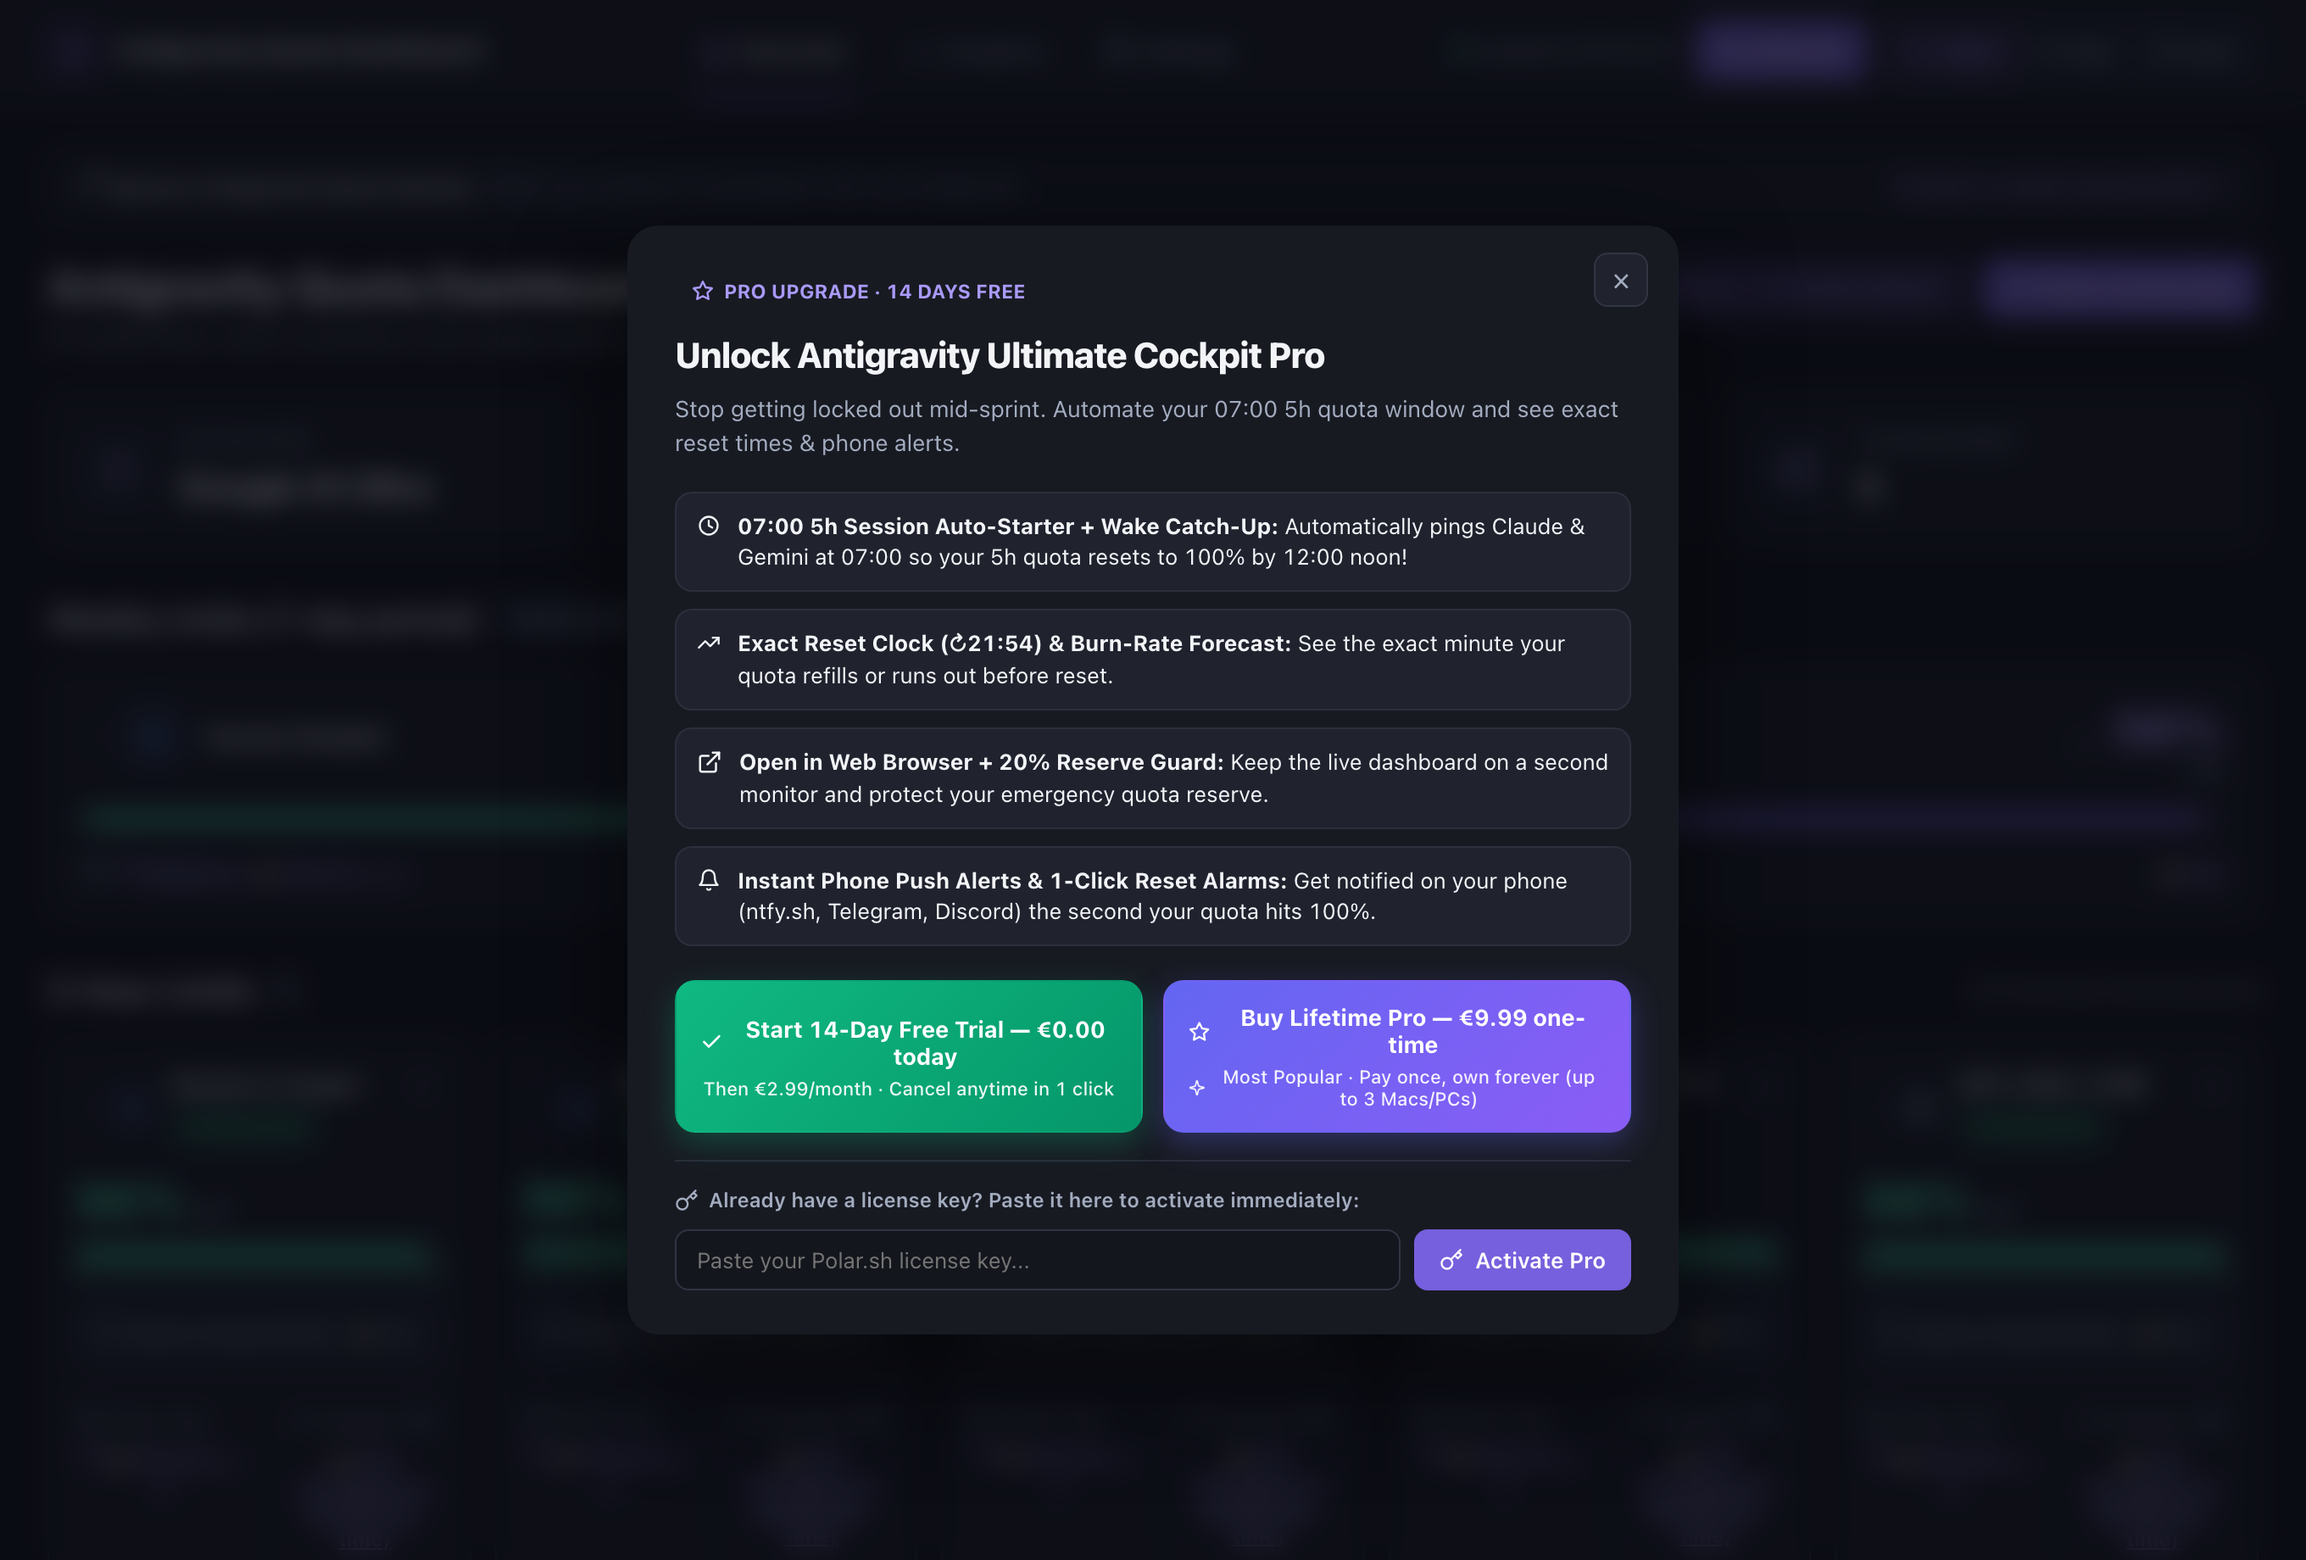
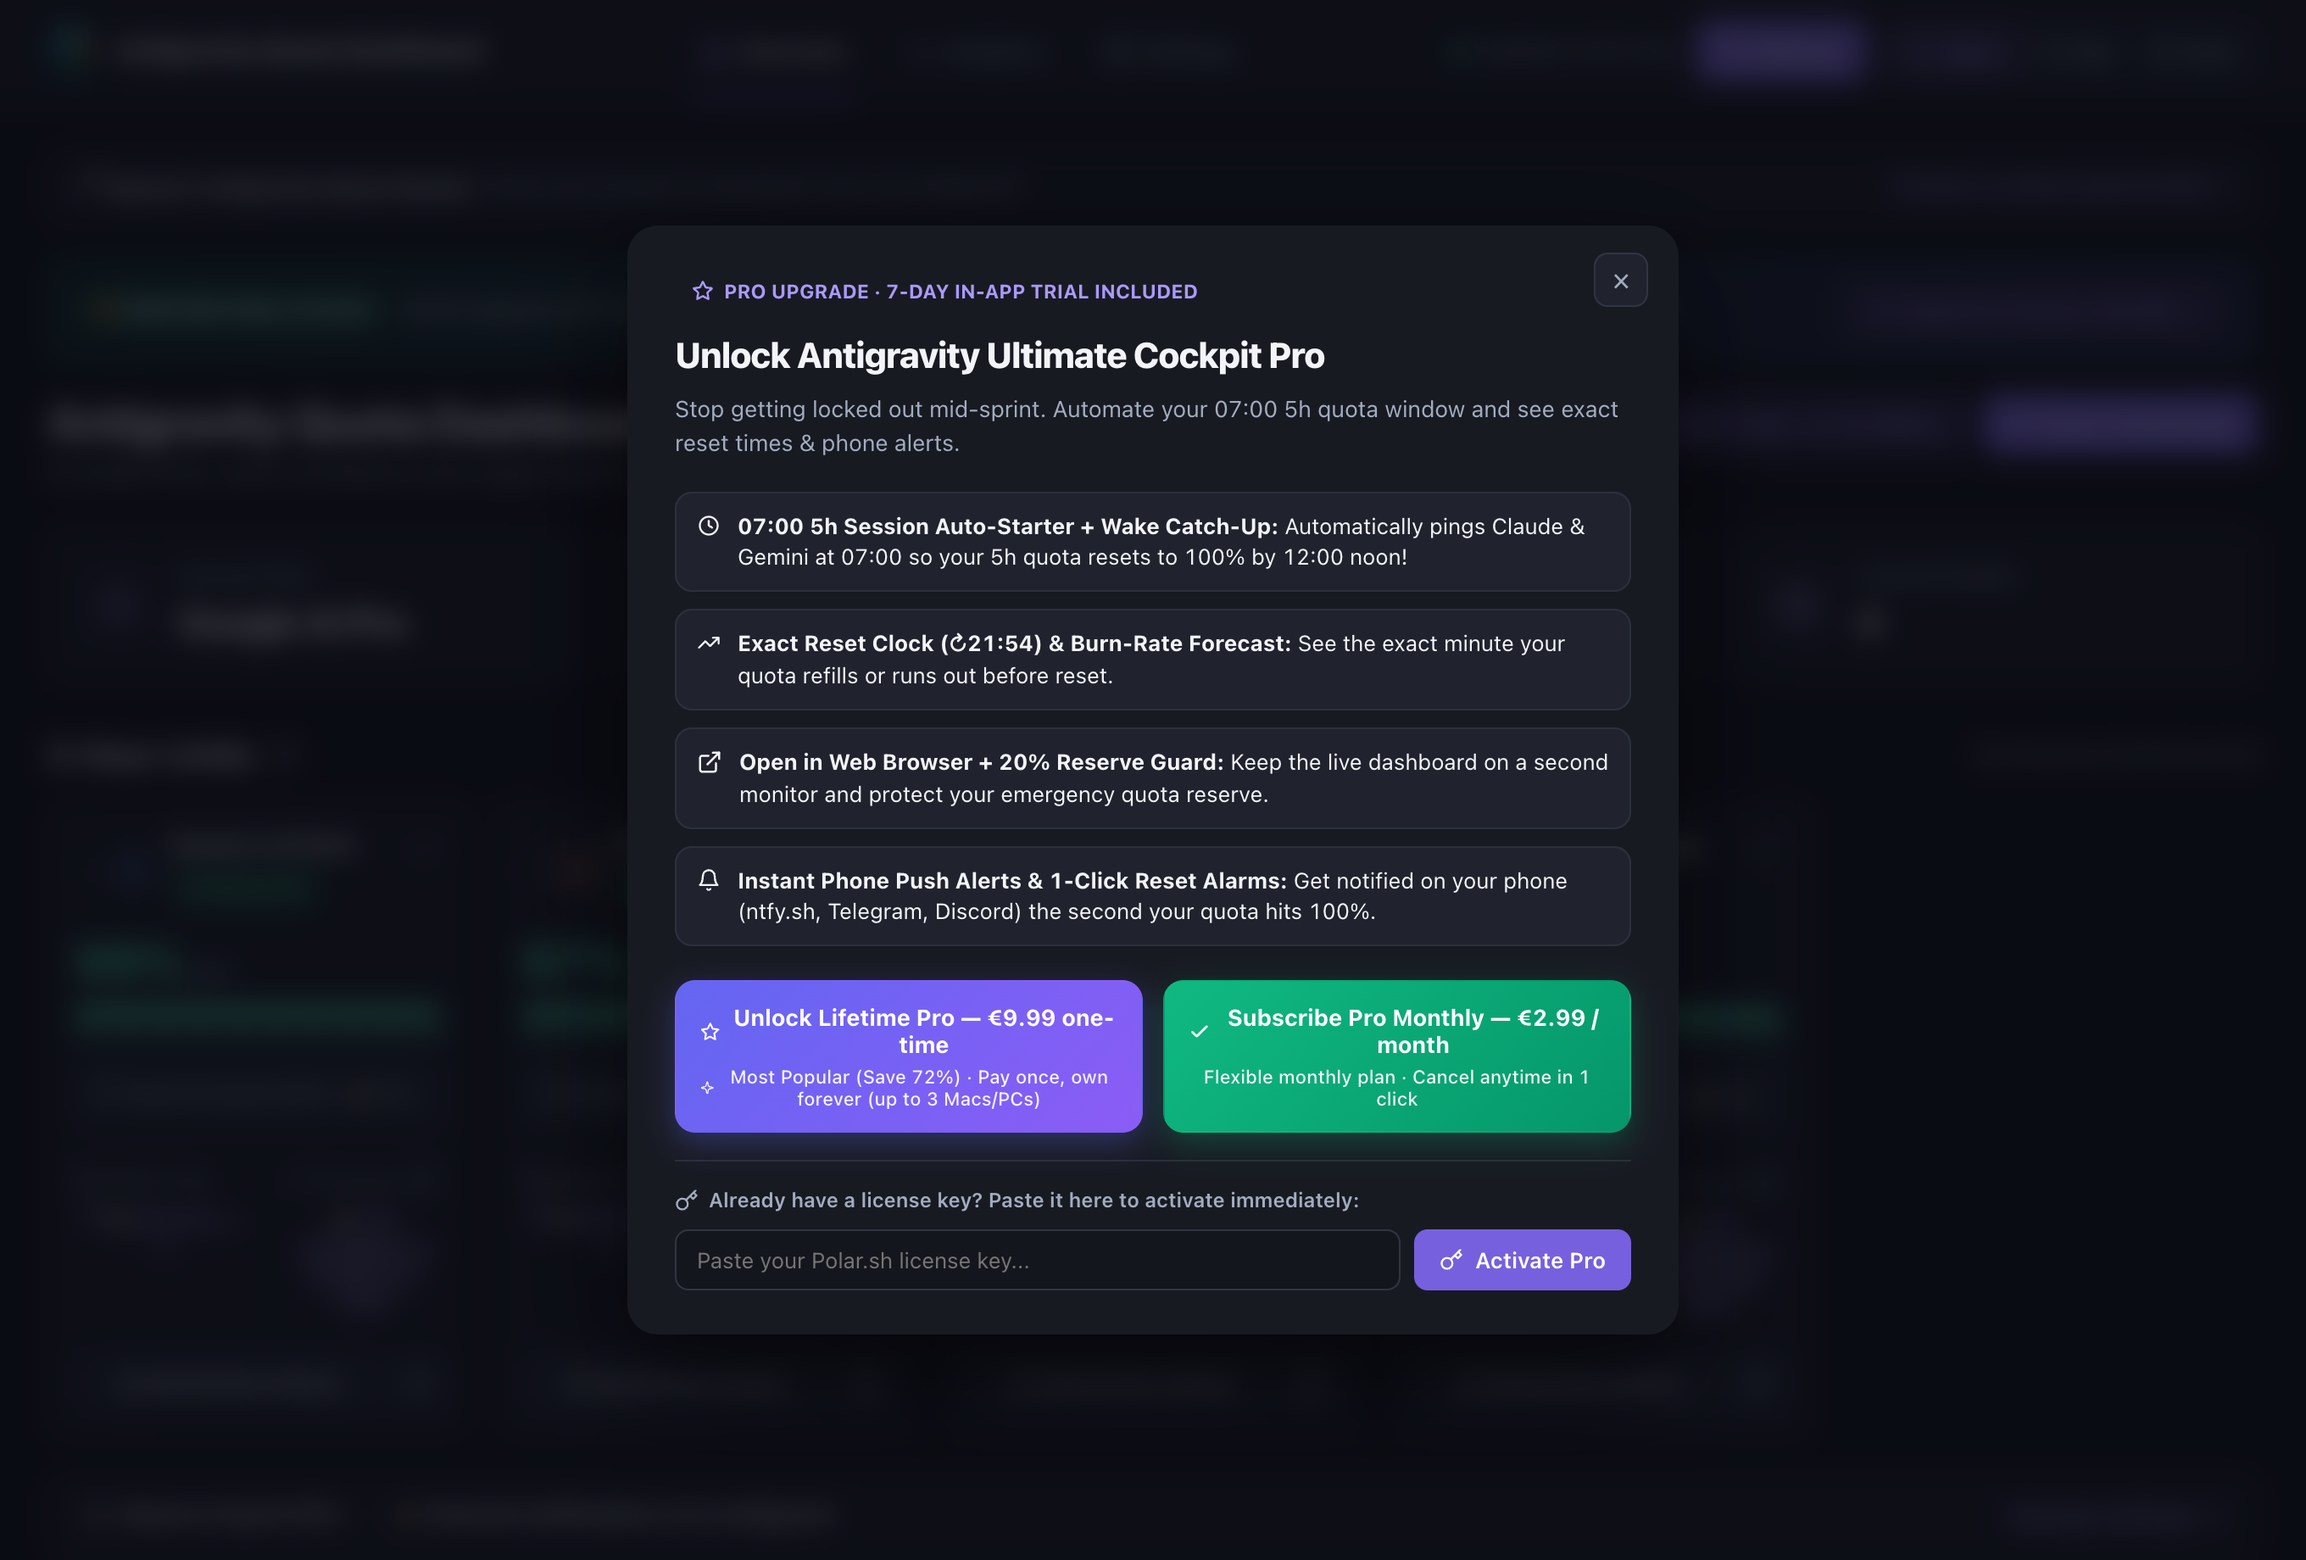
feat: unify 7-day in-app trial and prioritize €9.99 Lifetime Pro CTA (v2.0.39)

diff --git a/README.md b/README.md
@@ -7,14 +7,14 @@
 **Stop getting locked out of Claude Opus 5.5, Sonnet 5.5, and Gemini 4 Argon mid-sprint.**  
 **Real-time 5-Hour & 7-Day Weekly AI Quota Telemetry, Scheduled `07:00` Session Auto-Warmup, Reserve Guard & Phone Alerts for Google Antigravity IDE.**
 
-[![Version](https://img.shields.io/badge/release-v2.0.37-6D5EF3?style=flat-square)](https://open-vsx.org/extension/Nordicstocks/antigravity-quota-monitor)
+[![Version](https://img.shields.io/badge/release-v2.0.39-6D5EF3?style=flat-square)](https://open-vsx.org/extension/Nordicstocks/antigravity-quota-monitor)
 [![7-Day In-App Pro Trial](https://img.shields.io/badge/In--App_Pro_Trial-7_Days_FREE_(No_Card_Required)-10B981?style=flat-square)](https://open-vsx.org/extension/Nordicstocks/antigravity-quota-monitor)
 [![Lifetime Pro](https://img.shields.io/badge/Lifetime_Pro-%E2%82%AC9.99_One--Time-7C3AED?style=flat-square)](https://buy.polar.sh/polar_cl_xdY0LqtPIfPHfnG9o8Wo5QIIpJRlvhxQOZ6vL4g5jIB)
 [![37 Languages](https://img.shields.io/badge/Languages-37_Built--In-0EA5E9?style=flat-square)](#37-built-in-languages-automatic-os-detection)
 
 <br/>
 
-<a href="https://buy.polar.sh/polar_cl_avl0NAvpPN4jQD0vZRRg11yZ92BQ2OHCKw29f4dxlPW"><img src="https://img.shields.io/badge/START_14--DAY_PRO_TRIAL-%E2%82%AC0.00_TODAY-10B981?style=for-the-badge" alt="Start 14-Day Pro Trial" /></a>&nbsp;&nbsp;<a href="https://buy.polar.sh/polar_cl_xdY0LqtPIfPHfnG9o8Wo5QIIpJRlvhxQOZ6vL4g5jIB"><img src="https://img.shields.io/badge/BUY_LIFETIME_PRO-%E2%82%AC9.99_ONE--TIME-6D5EF3?style=for-the-badge" alt="Buy Lifetime Pro €9.99" /></a>
+<a href="https://buy.polar.sh/polar_cl_xdY0LqtPIfPHfnG9o8Wo5QIIpJRlvhxQOZ6vL4g5jIB"><img src="https://img.shields.io/badge/UNLOCK_LIFETIME_PRO-%E2%82%AC9.99_ONE--TIME_(SAVE_72%25)-6D5EF3?style=for-the-badge" alt="Unlock Lifetime Pro €9.99 One-Time" /></a>&nbsp;&nbsp;<a href="https://buy.polar.sh/polar_cl_avl0NAvpPN4jQD0vZRRg11yZ92BQ2OHCKw29f4dxlPW"><img src="https://img.shields.io/badge/PRO_MONTHLY-%E2%82%AC2.99_%2F_MONTH-10B981?style=for-the-badge" alt="Subscribe Pro Monthly €2.99/mo" /></a>
 
 </div>
 
@@ -43,7 +43,7 @@ If you already pay **\$20 to \$200/month** for AI coding plans (Google AI Pro/Ul
 | You send your first prompt at `09:30` → locked until `14:30`. | **`07:00` Auto-Warmup** starts your 5h window early → **100% fresh refill at `12:00` Noon**. |
 | You burn through Claude Opus/Sonnet blindly and get cut off mid-refactor. | **Burn-Rate Forecast + 20% Reserve Guard** warns you early and switches you cleanly. |
 | You keep checking the IDE to see if your 5-hour timer has reset yet. | **Phone Push Alert (`ntfy.sh` / Telegram)** pings your phone the instant quota hits **100%**. |
-| Another monthly SaaS subscription draining your card every month. | **€9.99 One-Time Lifetime Payment** (or **€2.99/mo** after a 14-day free trial). |
+| Another monthly SaaS subscription draining your card every month. | **€9.99 One-Time Lifetime Payment** (save 72% vs. **€2.99/mo** monthly plan). |
 
 ![In-App Pro Upgrade Modal](https://raw.githubusercontent.com/Nordicstocks/antigravity-quota-monitor/fb46f6f/images/pro-modal-en.png)
 
@@ -85,7 +85,7 @@ Track which workspace folders consume the most AI quota, inspect your **90-Day W
 
 ## ✅ Free vs. Pro Feature Comparison
 
-> **Remember:** Every new installation automatically includes **7 days of full Pro access inside the app** (no credit card required), plus you can start a **14-Day Free Trial (€0.00 today)** or unlock **Lifetime Pro for €9.99 one-time** at any time.
+> **Remember:** Every new installation automatically includes **7 days of full Pro access inside the app** (no credit card required). To keep Pro after your 7-day in-app trial, unlock **Lifetime Pro for €9.99 one-time** (most popular) or subscribe for **€2.99/month**.
 
 <!-- FEATURES_TABLE_START -->
 | Feature | 🆓 Free Version | 🌟 Pro Edition (€2.99/mo or €9.99 One-Time) |
@@ -112,7 +112,7 @@ Track which workspace folders consume the most AI quota, inspect your **90-Day W
 
 <div align="center">
 <br/>
-<a href="https://buy.polar.sh/polar_cl_avl0NAvpPN4jQD0vZRRg11yZ92BQ2OHCKw29f4dxlPW"><img src="https://img.shields.io/badge/START_14--DAY_FREE_TRIAL-%E2%82%AC0.00_TODAY-10B981?style=for-the-badge" alt="Start 14-Day Free Trial" /></a>&nbsp;&nbsp;<a href="https://buy.polar.sh/polar_cl_xdY0LqtPIfPHfnG9o8Wo5QIIpJRlvhxQOZ6vL4g5jIB"><img src="https://img.shields.io/badge/GET_LIFETIME_PRO-%E2%82%AC9.99_ONE--TIME-6D5EF3?style=for-the-badge" alt="Get Lifetime Pro €9.99" /></a>
+<a href="https://buy.polar.sh/polar_cl_xdY0LqtPIfPHfnG9o8Wo5QIIpJRlvhxQOZ6vL4g5jIB"><img src="https://img.shields.io/badge/UNLOCK_LIFETIME_PRO-%E2%82%AC9.99_ONE--TIME_(SAVE_72%25)-6D5EF3?style=for-the-badge" alt="Unlock Lifetime Pro €9.99 One-Time" /></a>&nbsp;&nbsp;<a href="https://buy.polar.sh/polar_cl_avl0NAvpPN4jQD0vZRRg11yZ92BQ2OHCKw29f4dxlPW"><img src="https://img.shields.io/badge/PRO_MONTHLY-%E2%82%AC2.99_%2F_MONTH-10B981?style=for-the-badge" alt="Subscribe Pro Monthly €2.99/mo" /></a>
 <br/><br/>
 </div>
 
